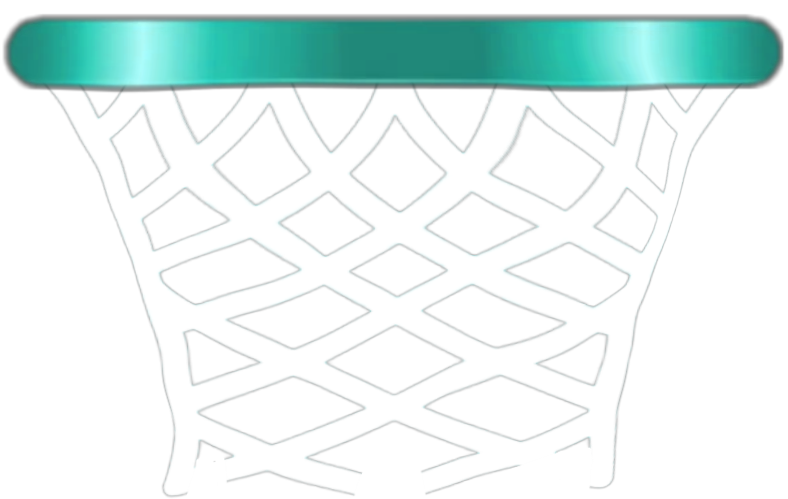
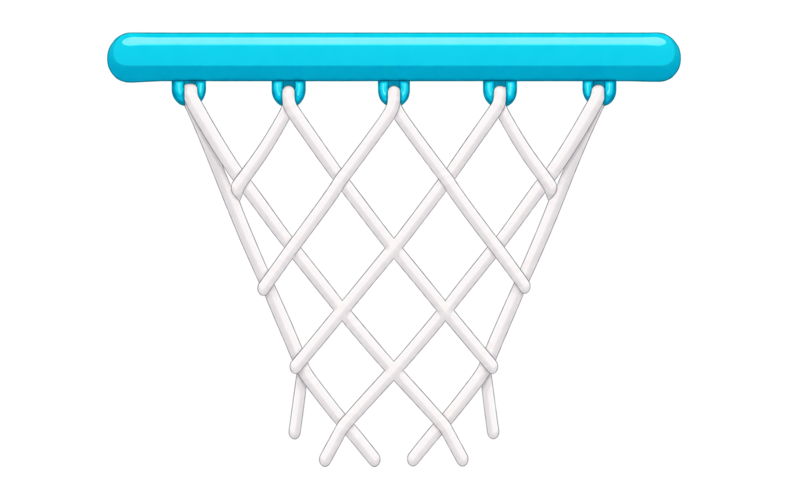
Add files via upload

diff --git a/js/IconSelection.js b/js/IconSelection.js
@@ -1,17 +1,6 @@
 const IconSelection = ({ onSelect, onBack }) => {
     const { useState } = React;
-    const [category, setCategory] = useState('Caricaturas');
-
-    const memeIcons = [
-        { path: 'img/iconos/memes/meme1.png', name: 'Tralalero' },
-        { path: 'img/iconos/memes/meme2.png', name: 'Tun Tun Sahur' },
-        { path: 'img/iconos/memes/meme3.png', name: 'Bailarina Cpuchina' },
-        { path: 'img/iconos/memes/meme4.png', name: 'Cocodrilo Bombardino' },
-        { path: 'img/iconos/memes/meme5.png', name: 'Liri Li La' },
-        { path: 'img/iconos/memes/meme6.png', name: 'Horangutini' },
-        { path: 'img/iconos/memes/meme7.png', name: 'Bananini' },
-        { path: 'img/iconos/memes/meme8.png', name: 'Udin Din Din' },
-    ];
+    const [category, setCategory] = useState('Gatos');
 
     const catIcons = [
         { path: 'img/iconos/gatos/cat1.png', name: 'Josy' },
@@ -30,48 +19,21 @@ const IconSelection = ({ onSelect, onBack }) => {
         { path: 'img/iconos/gatos/cat14.png', name: 'Rex' },
     ];
 
-    const caricatureIcons = [
-        { path: 'img/iconos/caricaturas/cartoon1.png', name: 'Mazinger Z' },
-        { path: 'img/iconos/caricaturas/cartoon2.png', name: 'Bugs Bunny' },
-        { path: 'img/iconos/caricaturas/cartoon3.png', name: 'Chavo Del 8' },
-        { path: 'img/iconos/caricaturas/cartoon4.png', name: 'Jerry' },
-        { path: 'img/iconos/caricaturas/cartoon5.png', name: 'Bob Esponja' },
-        { path: 'img/iconos/caricaturas/cartoon6.png', name: 'Inspector Gadget' },
-        { path: 'img/iconos/caricaturas/cartoon7.png', name: 'Homero Simpson' },
-        { path: 'img/iconos/caricaturas/cartoon8.png', name: 'Scooby Doo' },
-        { path: 'img/iconos/caricaturas/cartoon9.png', name: 'Pikachu' },
-        { path: 'img/iconos/caricaturas/cartoon10.png', name: 'Pedro Picapiedra' },
-        { path: 'img/iconos/caricaturas/cartoon11.png', name: 'Popeye' },
-        { path: 'img/iconos/caricaturas/cartoon12.png', name: 'Micky' },
-        { path: 'img/iconos/caricaturas/cartoon13.png', name: 'Pajaro Loco' },
-        { path: 'img/iconos/caricaturas/cartoon14.png', name: 'Goku' },
-    ];
-
-    const icons = category === 'Memes' ? memeIcons : category === 'Gatos' ? catIcons : caricatureIcons;
+    const icons = catIcons;
 
     return (
         <div className="icon-selection-container">
             <h1 className="icon-selection-title">Elige tu Icono</h1>
 
             <div className="category-tabs">
-                <button
-                    className={`category-tab ${category === 'Caricaturas' ? 'active' : ''}`}
-                    onClick={() => setCategory('Caricaturas')}
-                >
-                    Caricaturas
-                </button>
+            
                 <button
                     className={`category-tab ${category === 'Gatos' ? 'active' : ''}`}
                     onClick={() => setCategory('Gatos')}
                 >
                     Gatos
                 </button>
-                <button
-                    className={`category-tab ${category === 'Memes' ? 'active' : ''}`}
-                    onClick={() => setCategory('Memes')}
-                >
-                    Memes
-                </button>
+                
             </div>
 
             <div className="icon-grid">

diff --git a/js/Preloader.js b/js/Preloader.js
@@ -5,15 +5,7 @@ const Preloader = () => {
         'img/arco/hoop_base.png',
         'img/arco/hoop_ring.png',
         'img/fondo/background.png',
-        // Íconos de memes
-        'img/iconos/memes/meme1.png',
-        'img/iconos/memes/meme2.png',
-        'img/iconos/memes/meme3.png',
-        'img/iconos/memes/meme4.png',
-        'img/iconos/memes/meme5.png',
-        'img/iconos/memes/meme6.png',
-        'img/iconos/memes/meme7.png',
-        'img/iconos/memes/meme8.png',
+        
         // Íconos de gatos
         'img/iconos/gatos/cat1.png',
         'img/iconos/gatos/cat2.png',
@@ -29,21 +21,7 @@ const Preloader = () => {
         'img/iconos/gatos/cat12.png',
         'img/iconos/gatos/cat13.png',
         'img/iconos/gatos/cat14.png',
-        // Íconos de caricaturas
-        'img/iconos/caricaturas/cartoon1.png',
-        'img/iconos/caricaturas/cartoon2.png',
-        'img/iconos/caricaturas/cartoon3.png',
-        'img/iconos/caricaturas/cartoon4.png',
-        'img/iconos/caricaturas/cartoon5.png',
-        'img/iconos/caricaturas/cartoon6.png',
-        'img/iconos/caricaturas/cartoon7.png',
-        'img/iconos/caricaturas/cartoon8.png',
-        'img/iconos/caricaturas/cartoon9.png',
-        'img/iconos/caricaturas/cartoon10.png',
-        'img/iconos/caricaturas/cartoon11.png',
-        'img/iconos/caricaturas/cartoon12.png',
-        'img/iconos/caricaturas/cartoon13.png',
-        'img/iconos/caricaturas/cartoon14.png'
+        
     ];
 
     // Contamos cuántas imágenes ya se cargaron

diff --git a/js/App.js b/js/App.js
@@ -19,8 +19,8 @@ const App = () => {
   const playerIndexRef = useRef(null);
   const wsRef = useRef(null);
   const lastBallStateRef = useRef(null);
-  const selectedIconRef = useRef('img/iconos/memes/meme1.png');
-  const playerIconsRef = useRef(['img/iconos/memes/meme1.png', 'img/iconos/memes/meme1.png']);
+  const selectedIconRef = useRef('img/iconos/gatos/cat1.png');
+  const playerIconsRef = useRef(['img/iconos/gatos/cat1.png', 'img/iconos/gatos/cat1.png']);
   const isPlayingEndSound = useRef(false); // Bandera para sonidos win/lose
 
   const ballRef = useRef(null);
@@ -49,7 +49,7 @@ const App = () => {
         setRoom(data.room);
         playersRef.current = data.players;
         playerIndexRef.current = data.playerIndex;
-        playerIconsRef.current = data.playerIcons || ['img/iconos/memes/meme1.png', 'img/iconos/memes/meme1.png'];
+        playerIconsRef.current = data.playerIcons || ['img/iconos/gatos/cat1.png', 'img/iconos/gatos/cat1.png'];
         setScreen('gameplay');
       }
 
@@ -59,7 +59,7 @@ const App = () => {
         scoresRef.current = data.scores;
         roundRef.current = data.round;
         turnRef.current = data.turn;
-        playerIconsRef.current = data.playerIcons || ['img/iconos/memes/meme1.png', 'img/iconos/memes/meme1.png'];
+        playerIconsRef.current = data.playerIcons || ['img/iconos/gatos/cat1.png', 'img/iconos/gatos/cat1.png'];
         SoundManager.playBackground();
         SoundManager.stopWheels();
       }
